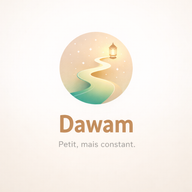
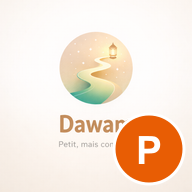
feat: icônes preprod avec badge orange P pour différencier prod/preprod

Changed region(s): [[0.5938, 0.5938, 0.9688, 0.9688]]

diff --git a/sw.js b/sw.js
@@ -1,4 +1,4 @@
-const CACHE = "dawam-v36";
+const CACHE = "dawam-v37";
 const ASSETS = [
   "./manifest.json",
   "https://fonts.googleapis.com/css2?family=Lora:ital,wght@0,400;0,500;0,600;0,700;1,400;1,500&family=DM+Sans:wght@300;400;500;600&display=swap"
